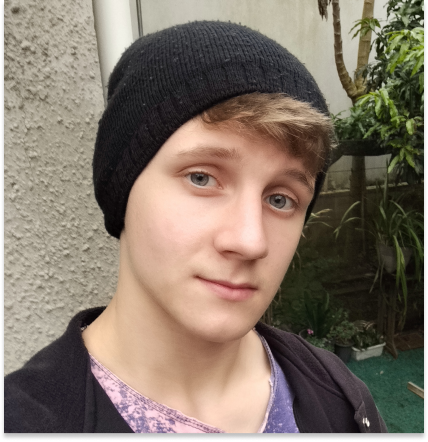
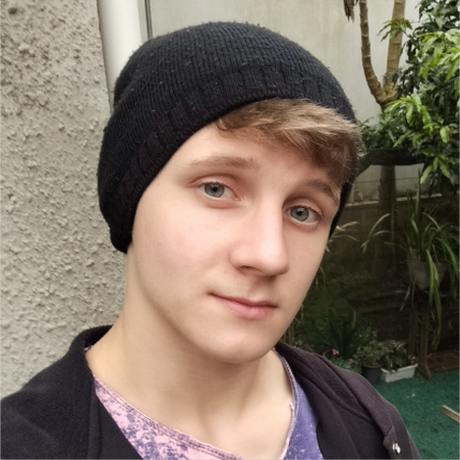
Feita a seção sobre nós

diff --git a/secoes/sobrenos/sobrenos.css b/secoes/sobrenos/sobrenos.css
@@ -1,13 +1,105 @@
 @import url('https://fonts.googleapis.com/css2?family=Aldrich&display=swap');
 @import url('https://fonts.googleapis.com/css2?family=Bebas+Neue&display=swap');
 
-:root {
-    --verde: #ABF8CA;
-}
-
 *{
+    border: 0;
     margin: 0;
     padding: 0;
-    border: 0;
-    font-family:"Aldrich", sans-serif;
+}
+
+#sobreNos {
+    background: rgb(255,255,255);
+    background: linear-gradient(rgba(255,255,255,1) 0%, rgba(176,252,204,1) 35%, rgba(0,0,0,1) 100%);
+    display: flex;
+    align-items: center;
+    overflow-x: scroll;
+    scroll-behavior: smooth;
+    justify-content: center;
+    gap: 50px;
+}
+
+.sobreTextoCaixa, .sobreIntegrante {
+    transition: opacity 0.5s ease-in-out;
+}
+
+.sobreTextoCaixa {
+    margin-right: -100px;
+}
+
+.hidden {
+    opacity: 0;
+}
+
+.container{
+    flex: 0 0 auto;
+    max-width: 1920px;
+    padding: 50px 200px;
+}
+
+.txtdynamicsBranco{
+    font-size: 64px;
+    margin-top: -85px;
+    font-family: "Aldrich", sans-serif;
+    color: white;
+}
+
+.sobreFlecha {
+    width: 50px;
+    height: 50px;
+    filter: drop-shadow(-2px 2px 4px rgb(58, 58, 58));
+}
+
+.sobreFlecha:hover {
+    transform: scale(1.1);
+}
+
+.sobreIntegrante {
+    filter: drop-shadow(30px -30px #000000);
+    max-width: 420px;
+    max-height: 433px;
+}
+
+.sobreImagem {
+    display: flex;
+    align-items: center;
+    width: 420px;
+    height: 433px;
+}
+
+.sobreTexto {
+    min-width: 789px;
+    max-width: 789px;
+    min-height: 396px;
+    background-color: white;
+    padding: 20px;
+    margin-right: 150px;
+    font-family: "Aldrich";
+    font-weight: 400;
+    font-size: 24px;
+    line-height: 30px;
+    filter: drop-shadow(-10px 10px 30px #000000);
+}
+
+.sobreTudo {
+    display: flex;
+    align-items: flex-end;
+}
+
+.sobreTitulo {
+    font-family: "Bebas Neue";
+    font-weight: 400;
+    font-size: 48px;
+}
+
+.sobreEscrito {
+    display: flex;
+    flex-direction: column;
+    justify-content: center;
+    align-items: start;
+}
+
+#sobreNome {
+    margin: 15px 0px;
+    font-weight: bold;
+    font-size: larger;
 }

diff --git a/secoes/sobrenos/sobrenos.js b/secoes/sobrenos/sobrenos.js
@@ -1,0 +1,31 @@
+const content = [
+    { nome:'João Pilger', text: 'Texto Pilger', img: '../../midia/integrantes/pilger.png' },
+    { nome: 'João Prâmio', text: 'Texto Pramio', img: '../../midia/integrantes/pramio.png' },
+    { nome: 'Bruno Gelain', text: 'Estudante de 16 anos do Instituto Federal Catarinense Campus Concórdia,  no curso de informática. Responsável por esta seção "Sobre Nós" e pelo footer.', img: '../../midia/integrantes/bruno.png' },
+    { nome: 'Gabriel Jappe', text: 'Texto Jappe', img: '../../midia/integrantes/jappe.png' },
+    { nome: 'Carlos Mior', text: 'Texto Carlos', img: '../../midia/integrantes/carlos.png' },
+    { nome: 'Murilo Jochkeck', text: 'Texto Murilo', img: '../../midia/integrantes/murilo.png' }
+];
+
+let currentIndex = 0;
+
+function updateContent() {
+    const nomeElement = document.getElementById('sobreNome');
+    const textoElement = document.getElementById('sobreTexto');
+    const imageElement = document.getElementById('sobreIntegrante');
+    
+    nomeElement.textContent = content[currentIndex].nome;
+    textoElement.textContent = content[currentIndex].text;
+    imageElement.src = content[currentIndex].img;
+
+}
+
+function nextItem() {
+    currentIndex = (currentIndex + 1) % content.length;
+    updateContent();
+}
+
+function previousItem() {
+    currentIndex = (currentIndex - 1 + content.length) % content.length;
+    updateContent();
+}

diff --git a/secoes/sobrenos/sobrenos.html b/secoes/sobrenos/sobrenos.html
@@ -1,0 +1,20 @@
+<link rel="stylesheet" href="sobrenos.css">
+<section id="sobreNos" class="container">
+        <img class="sobreFlecha" id="flechaEsquerda" src="../../midia/flecha2.png" alt="Flecha pra mover o carrossel" onclick="previousItem()">
+        <div class="sobreTudo">
+            <div class="sobreEscrito">
+                    <p class="sobreTitulo">SOBRE NÓS</p>
+                    <div class="sobreTextoCaixa">
+                        <div class="sobreTexto">
+                        <p id="sobreNome">João Pilger</p>
+                        <p id="sobreTexto">Texto Pilger.</p>
+                        </div>
+                    </div>
+            </div>
+            <div class="sobreImagem">
+                <img class="sobreIntegrante" id="sobreIntegrante" src="../../midia/integrantes/pilger.png" alt="Imagem do integrante">
+            </div>
+        </div>
+        <img class="sobreFlecha" id="flechaDireita" src="../../midia/flecha.png" alt="Flecha pra mover o carrossel" onclick="nextItem()">
+</section>
+<script src="sobrenos.js"></script>
